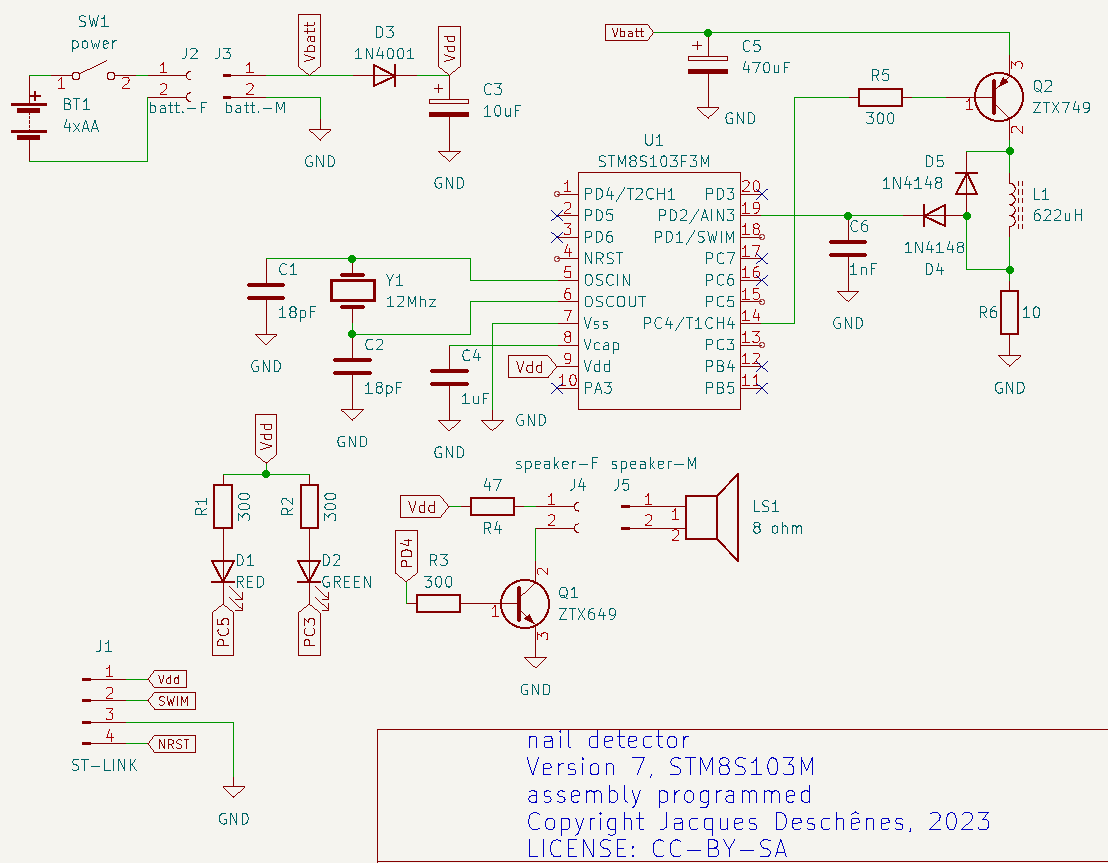
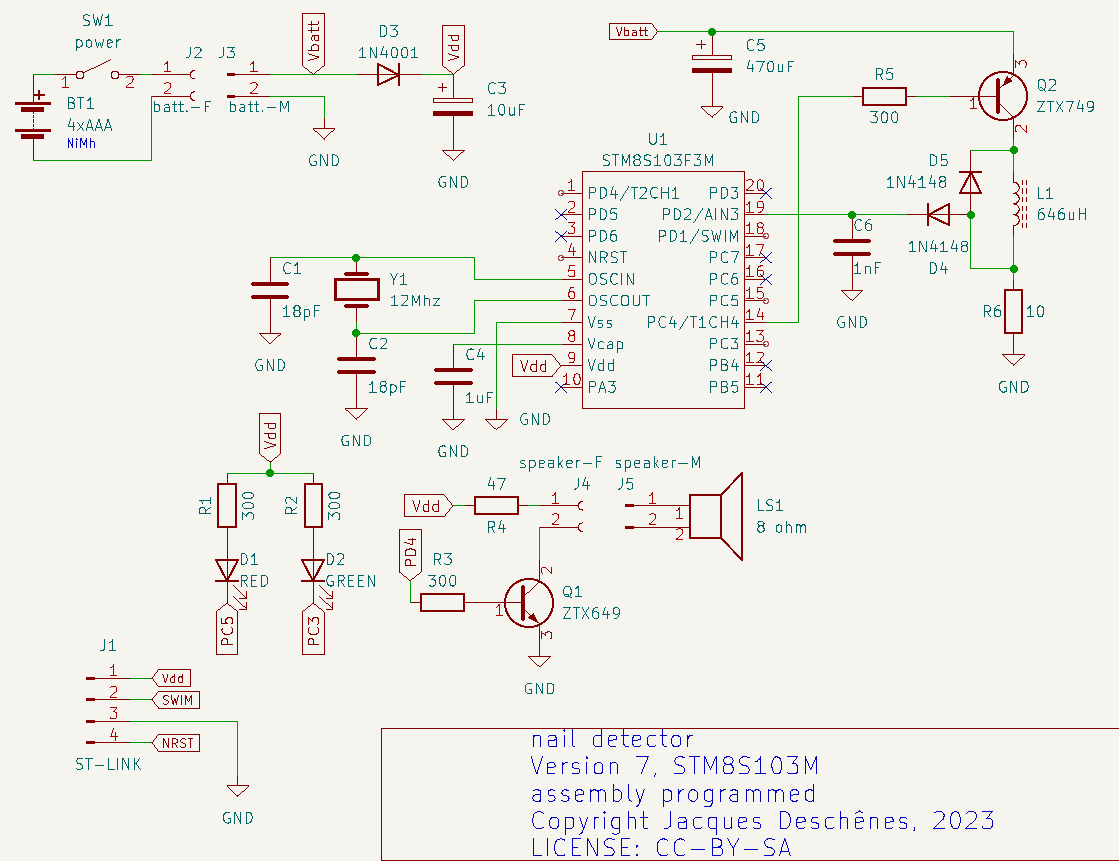
assemlage final

diff --git a/bare-metal/readme.md b/bare-metal/readme.md
@@ -1,4 +1,28 @@
 # Version 7 
+### 2023-04-05
+
+Last modification du circuit, new coil to increase detection area I replace the rod wounded coil by half cylindral wounded coil. The inductance is a little higher 646µH instead of 622µH. 
+For this coil I used half of cable ferrite as core. 
+
+![cable-ferrite.jpg](cable-ferrite.jpg)
+
+I remove one half from plastic shell to use as core. Using 30 AWG enameled wire . With 2 layers of this wire I measured 644µH. 
+
+![half-cylinder-coil.jpg](half-cylinder-coil.jpg)
+
+![half-cylinder-coil(2).jpg](half-cylinder-coil(2).jpg)
+
+I cutted 2 slot at the bottom of the box to push the coil edges flush to it an used epoxy glue to hold in place.
+
+![box-underneath](box-underneath.jpg)
+
+![coil-inside-box.jpg](coil-inside-box.jpg)
+
+![circuit in box](circuit-in-box.jpg)
+
+![nail finder box](nail-finder-box.jpg)
+
+Demo video [here](https://youtu.be/uCpbacAko6Q).
 
 ## 2023-03-29 
 
@@ -7,6 +31,7 @@
 * Tried a new coil on rod ferrite. [rod datasheet](ferrite-rod-4077484611.pdf).
 
 * Updated firmware [nail-finder.v6.asm](nail-finder.v6.asm).
+
 
 
 After many different circuits test I decided for the following circuit giving the best result.

diff --git a/journal.md b/journal.md
@@ -1,3 +1,11 @@
+### 2023-04-05
+
+* Complété l'assemblage final du projet.
+
+![bare-metal/nail-finder-box.jpg](bare-metal/nail-finder-box.jpg)
+
+![bare-metal/circuit-in-box.jpg](bare-metal/circuit-in-box.jpg)
+
 ### 2023-03-29 
 
 * Essaie d'une nouvelle bobine monté sur une ferrite cylindrique de 12,3mm de diamètre et de 41,3mm de longueur. la bobine est enroulée avec des spires jointives sur 25mm de longueur à partir d'un millimètre de l'extrémité sensible. Le bobinage a 2 couches de fils et l'inductance mesurée est de 622uH. [spécification de la ferrite](bare-metal/ferrite-rod-4077484611.pdf)

diff --git a/readme.md b/readme.md
@@ -36,6 +36,11 @@ When a metal object come close to **L1** it modify the inductance then **C6-L1**
 <a id="revisions"></a>
 ## Revisions 
 
+### 2023-03-05 
+
+Final assembly see [bare-metal/readme.md](bare-metal/readme.md)
+
+
 ### version 7 (STM8103F3M) final circuit 
 
 * Final source code:  [nail-finder.v6.asm](bare-metal/nail-finder.v6.asm)
